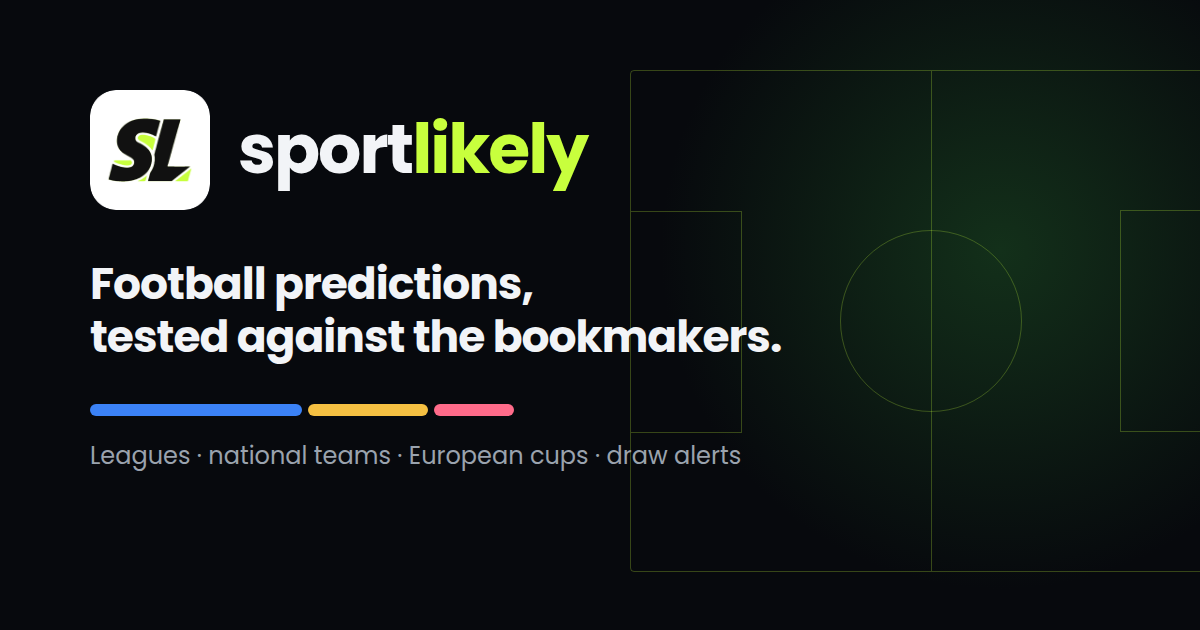
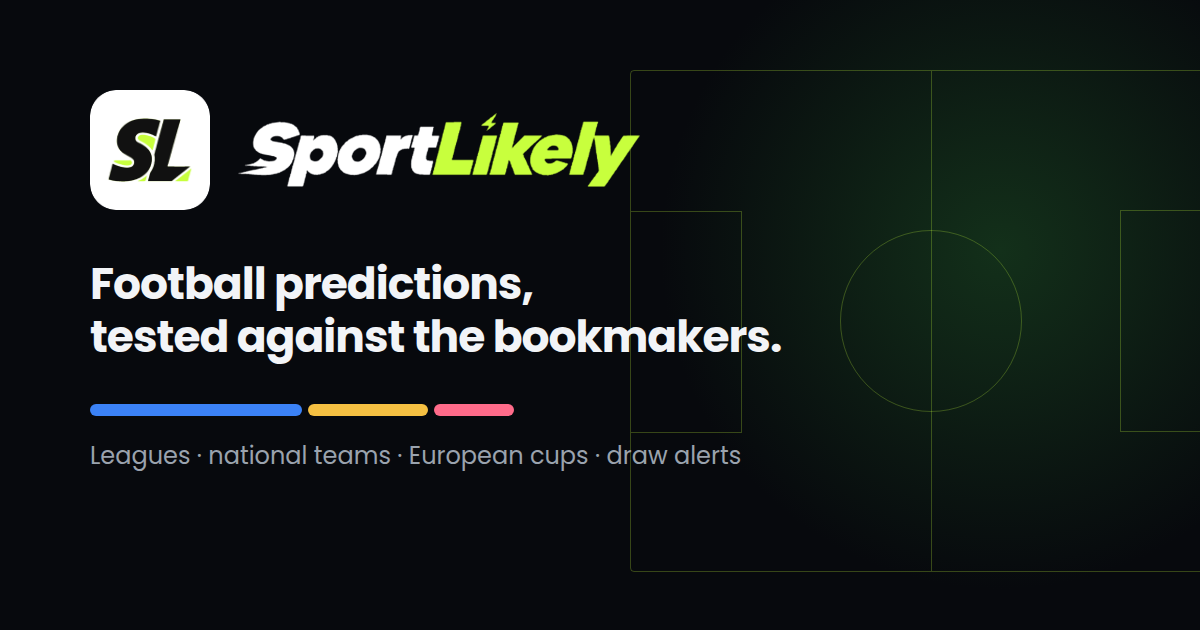
New SportLikely wordmark

Changed region(s): [[0.185, 0.181, 0.555, 0.3016]]

diff --git a/frontend/src/App.tsx b/frontend/src/App.tsx
@@ -37,8 +37,10 @@ function Logo() {
   return (
     <Link to="/" className="flex items-center gap-2.5 group shrink-0 whitespace-nowrap" aria-label={tt("SportLikely home")}>
       <LogoMark />
-      <span className="hidden min-[380px]:inline lg:hidden 2xl:inline font-display font-bold text-lg tracking-tight text-ink">
-        sport<span className="text-accent">likely</span></span>
+      <span className="hidden min-[380px]:inline-flex lg:hidden 2xl:inline-flex items-center" aria-hidden>
+        <img src="/wordmark-dark.png" alt="" className="hidden dark:block h-[22px] w-auto" />
+        <img src="/wordmark-light.png" alt="" className="block dark:hidden h-[22px] w-auto" />
+      </span>
     </Link>
   )
 }
